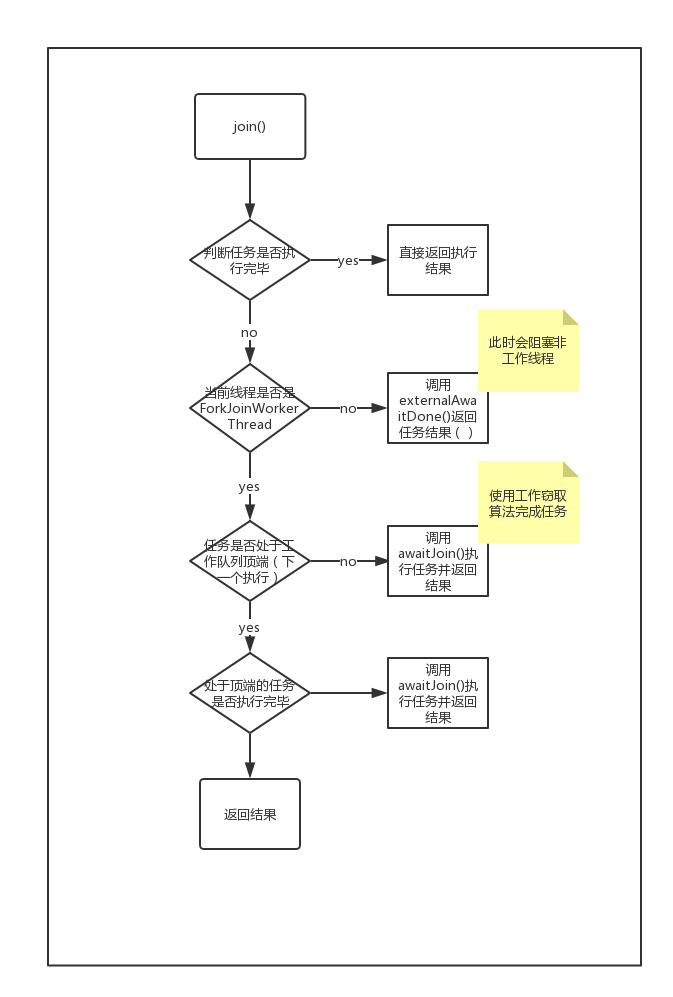
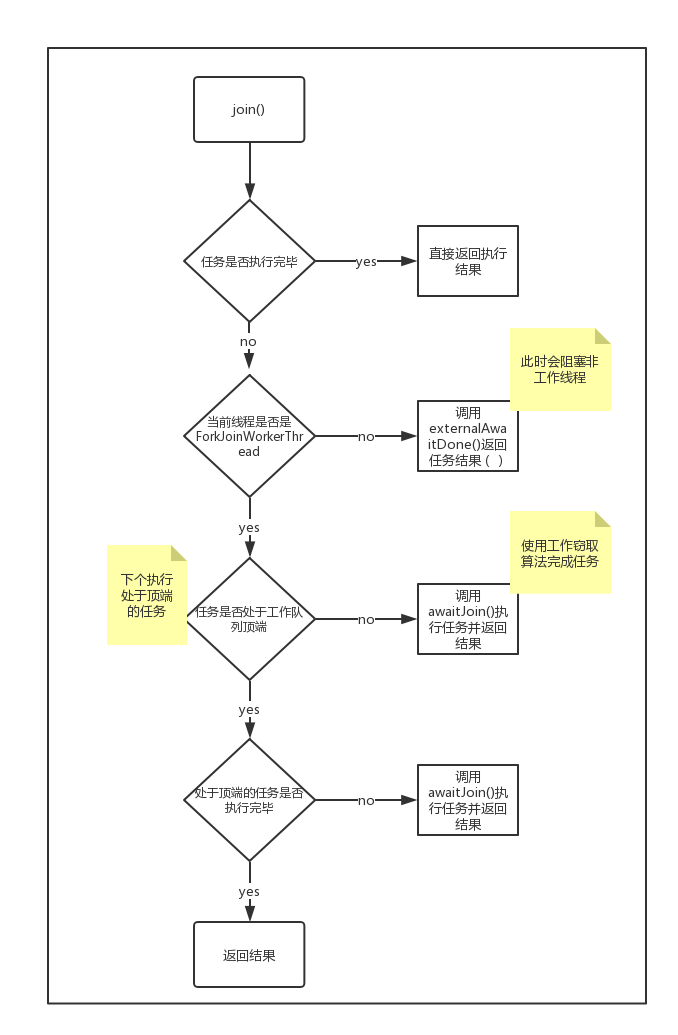
修复笔误； 重新上传join流程图

Changed region(s): [[0.0624, 0.0933, 0.9361, 0.995], [0.0624, 0.0311, 0.9673, 0.1555]]

diff --git a/article/03/3.7 Fork Join框架.md b/article/03/3.7 Fork Join框架.md
@@ -118,9 +118,9 @@ private int doJoin() {
 
 #### RecursiveAction和RecursiveTask
 
-两个都是ForkJoinTask的子类，**RecursiveAction可以看做是无返回值的ForkJoinTask，RecursiveTask是有返回值的ForkJoinTask**。
+两个都是ForkJoinTask的子类，**RecursiveAction可以看做是无返回值的ForkJoinTask，RecursiveRask是有返回值的ForkJoinTask**。
 
-此外，两个子类都有执行主要计算的方法compute()，当然，RecursiveAction无返回值，RecursiveTask的compute()有具体的返回值。
+此外，两个子类都有执行主要计算的方法compute()，当然，RecursiveAction的compute()返回空，RecursiveTask的compute()有具体的返回值。
 
 ### ForJoinPool
 
@@ -232,7 +232,7 @@ public class FibonacciTest {
 }
 ```
 
-需要注意的是，上述计算时间复杂度为`$O(2^n)$`	，随着n的增长计算效率会越来越低。此外，也并不是所有的任务都适合Fork/Join框架，比如上面的例子任务划分过于细小反而体现不出效率，大家可以下去试试用普通的递归来求f(n)的值，看看是不是要比使用Fork/Join快。
+需要注意的是，上述计算时间复杂度为`$O(2^n)$`，随着n的增长计算效率会越来越低。此外，也并不是所有的任务都适合Fork/Join框架，比如上面的例子任务划分过于细小反而体现不出效率，大家可以下去试试用普通的递归来求f(n)的值，看看是不是要比使用Fork/Join快。
 
 另外，Java8流操作的相关方法也用到了Fork/Join（比如sort()方法），大家如果有兴趣可以去看一看源码。
 
